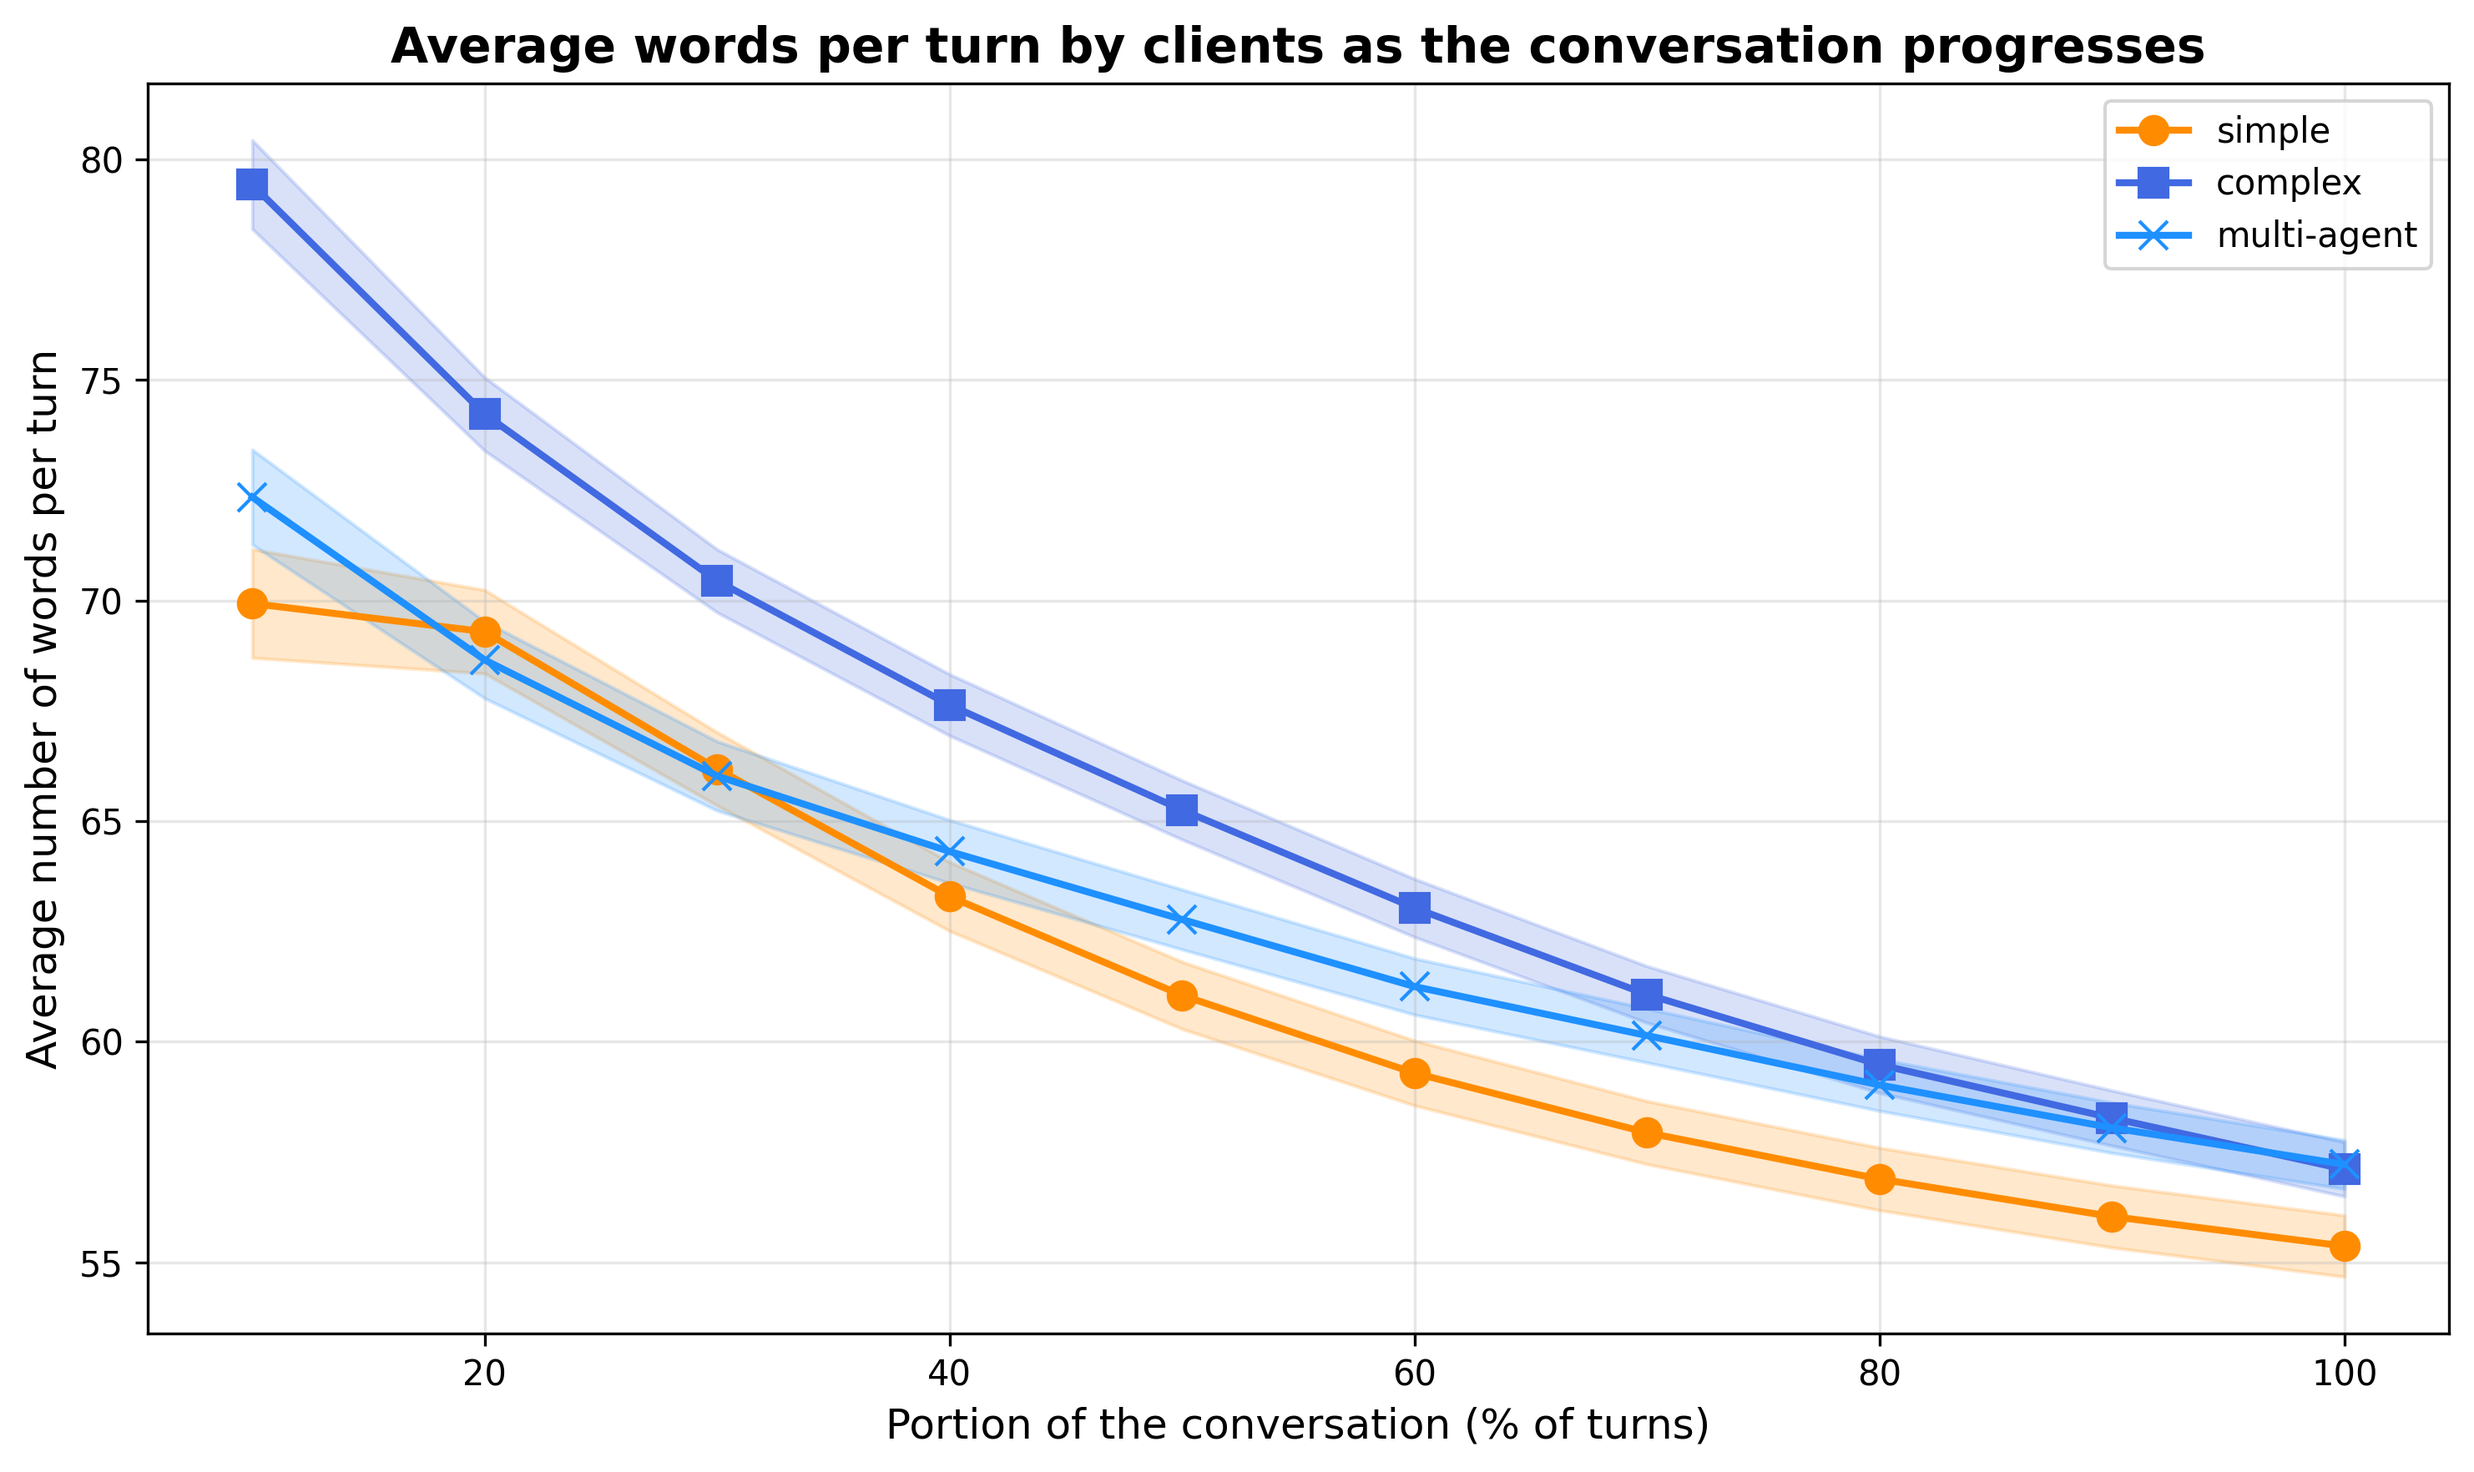
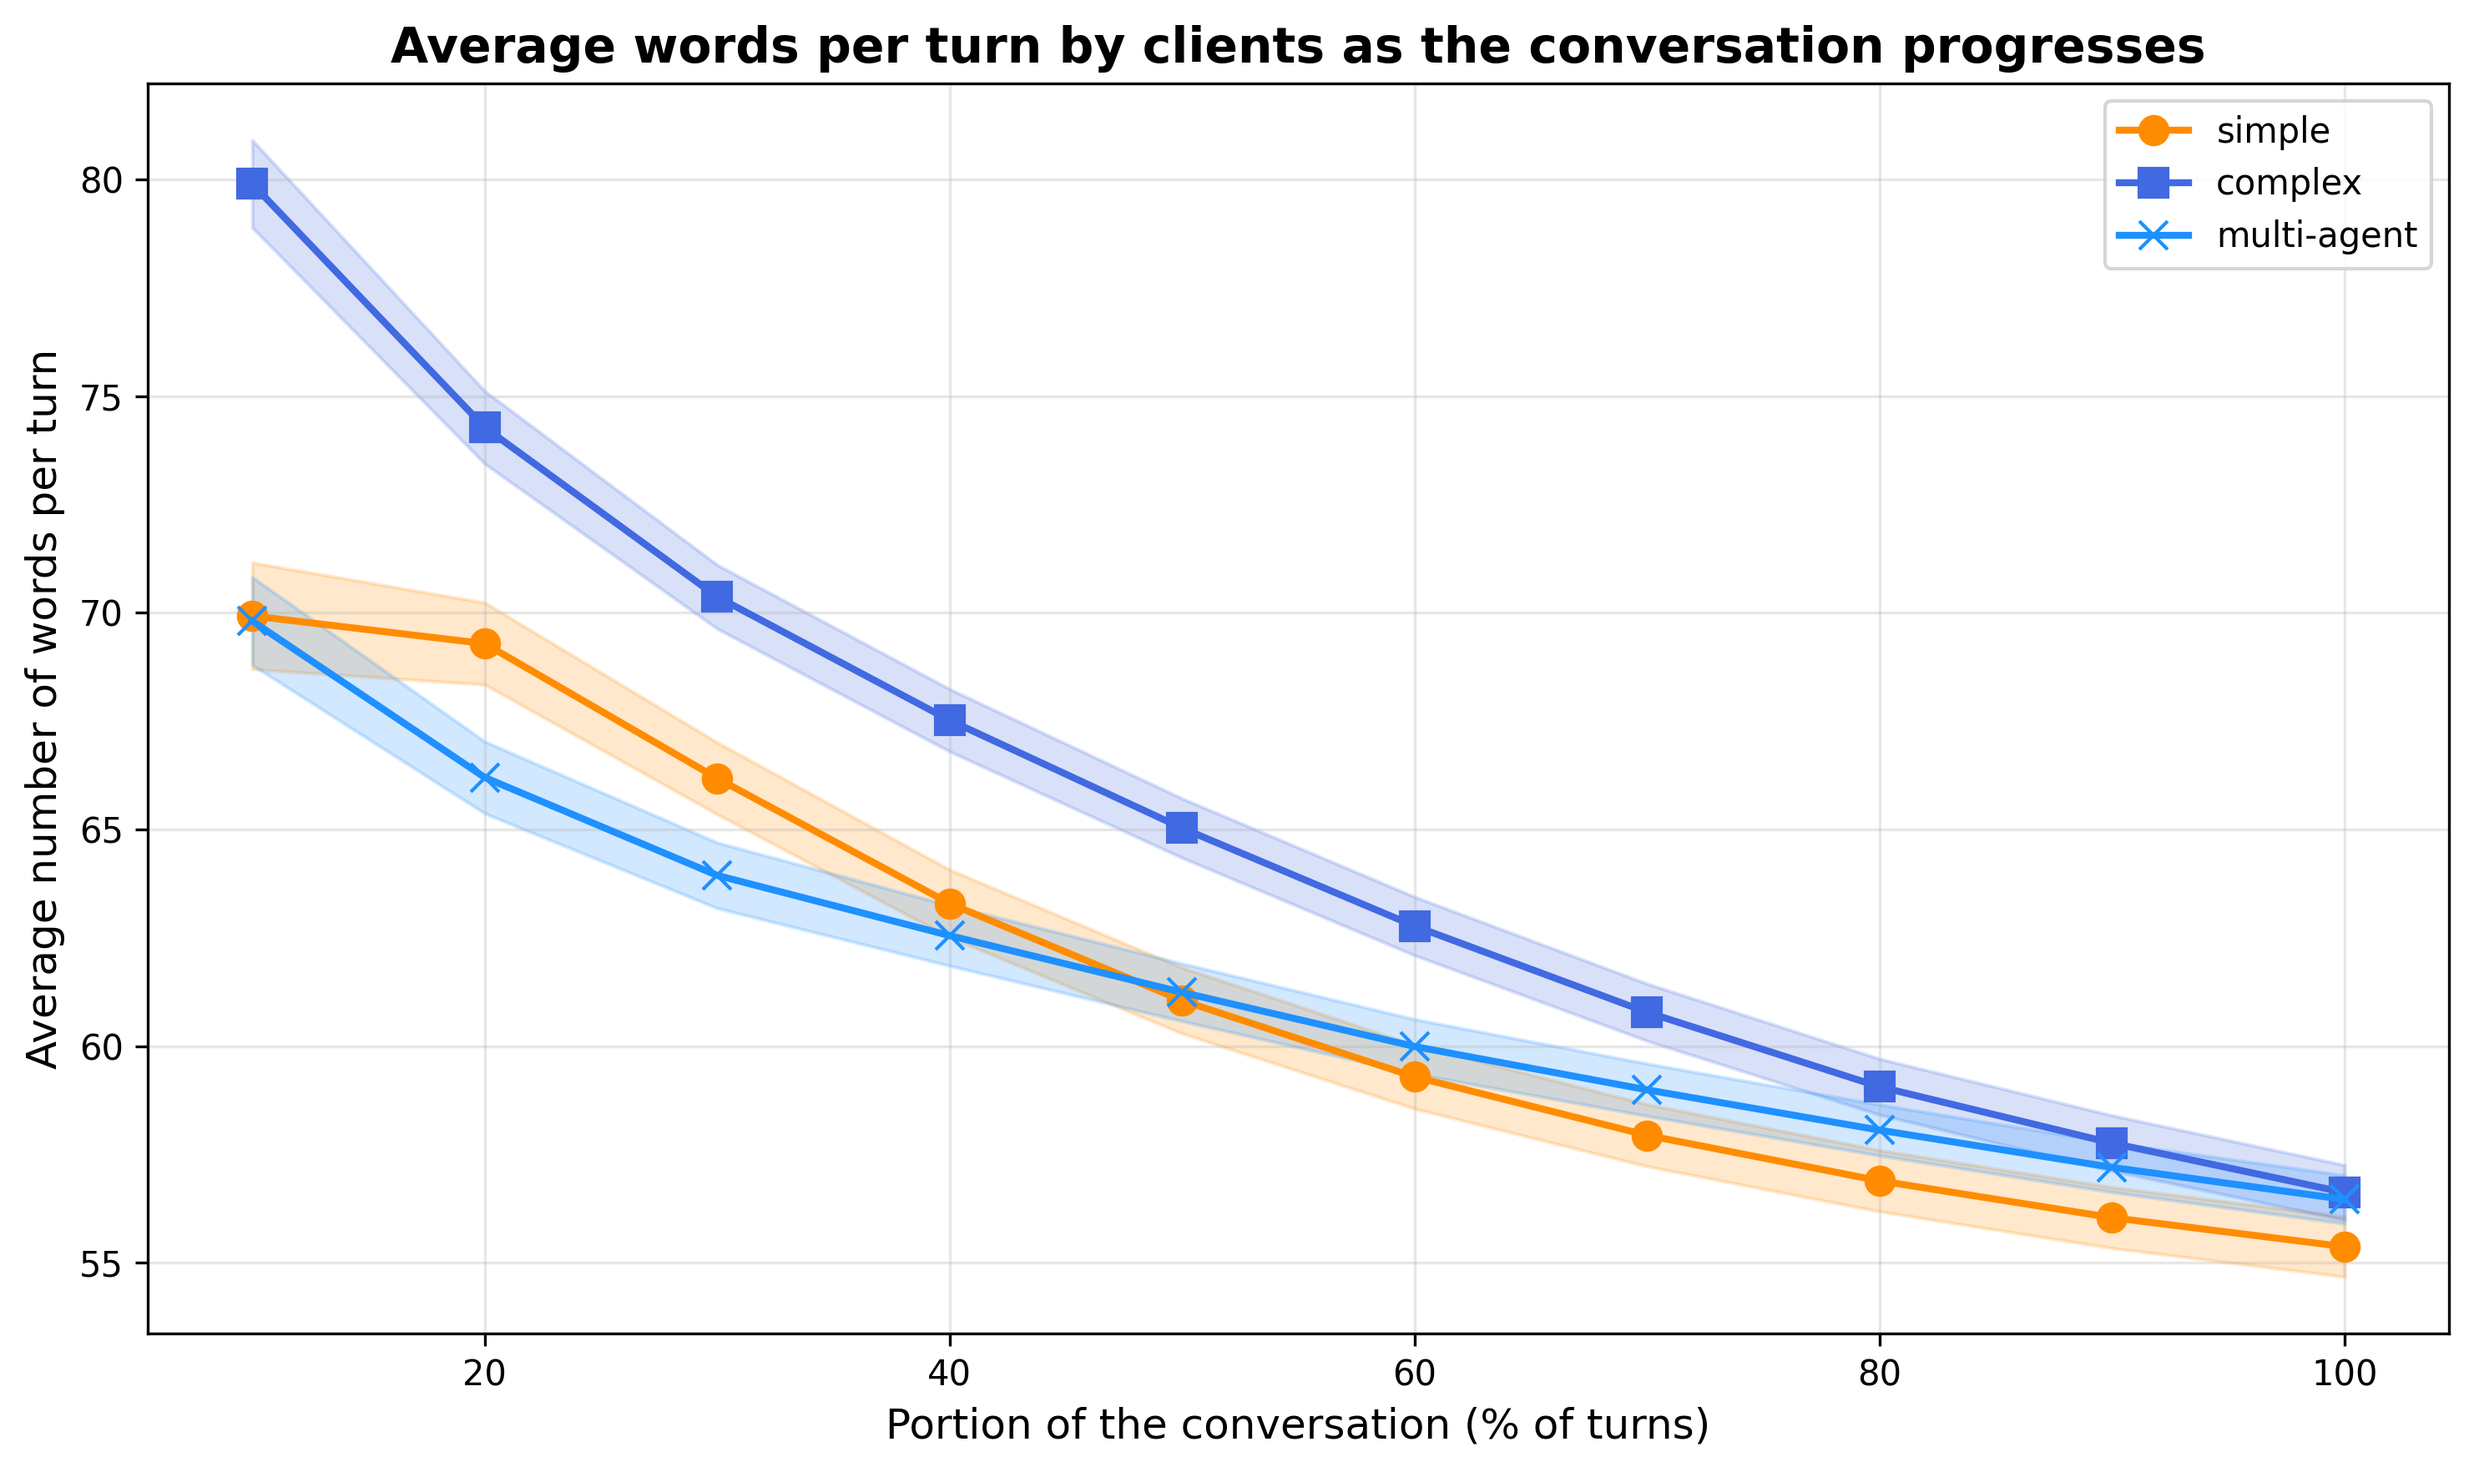
Update word and lsm analysis

diff --git a/Eval/lsm_analysis.py b/Eval/lsm_analysis.py
@@ -354,13 +354,13 @@ def main():
                     if not turn_pairs:
                         continue
                     
-                    # Create key for grouping: (timestamp, patient_id, therapist_mode)
-                    key = (matching_run['ts_str'], patient_id, matching_run['mode'])
+                    # Create key for grouping: (patient_id, therapist_mode)
+                    # Note: We don't include timestamp to avoid counting same patient multiple times
+                    key = (patient_id, matching_run['mode'])
                     
                     # Initialize entry if it doesn't exist
                     if key not in matched_data:
                         matched_data[key] = {
-                            'timestamp': matching_run['ts_str'],
                             'patient_id': patient_id,
                             'therapist_mode': matching_run['mode'],
                             'turn_lsm_scores': {i: [] for i in range(10)}
@@ -380,7 +380,6 @@ def main():
     final_rows = []
     
     for key, data in matched_data.items():
-        timestamp = data['timestamp']
         patient_id = data['patient_id']
         therapist_mode = data['therapist_mode']
         turn_map = data['turn_lsm_scores']
@@ -400,7 +399,6 @@ def main():
                 avg_lsm = sum(cumulative_scores) / len(cumulative_scores)
                 
                 final_rows.append({
-                    'timestamp': timestamp,
                     'patient_id': patient_id,
                     'therapist_mode': therapist_mode,
                     'turn_number': i + 1,
@@ -417,8 +415,8 @@ def main():
         for mode in unique_modes:
             mode_df = df[df['therapist_mode'] == mode]
             
-            # Count sessions for this mode
-            session_count = len(mode_df[['timestamp', 'patient_id']].drop_duplicates())
+            # Count unique patients for this mode
+            session_count = mode_df['patient_id'].nunique()
             
             # Group by turn and calculate mean and std of avg_lsm
             grouped = mode_df.groupby('turn_number')['avg_lsm'].agg(['mean', 'std', 'count']).reset_index()

diff --git a/Eval/word_analysis.py b/Eval/word_analysis.py
@@ -216,8 +216,9 @@ def aggregate_metrics(root_dir):
                     
                     data = parse_transcript_turns(transcript_path)
                     if data:
-                        # Create key for grouping: (timestamp, patient_id, therapist_mode)
-                        key = (matching_run['ts_str'], patient_id, matching_run['mode'])
+                        # Create key for grouping: (patient_id, therapist_mode)
+                        # Note: We don't include timestamp to avoid counting same patient multiple times
+                        key = (patient_id, matching_run['mode'])
                         
                         # Initialize entry if it doesn't exist
                         if key not in matched_data:
@@ -235,7 +236,7 @@ def aggregate_metrics(root_dir):
     mode_patient_data = {}  # mode -> list of patient-averaged data
     
     for key, session_list in matched_data.items():
-        ts_str, patient_id, mode = key
+        patient_id, mode = key
         
         if mode not in mode_patient_data:
             mode_patient_data[mode] = []
